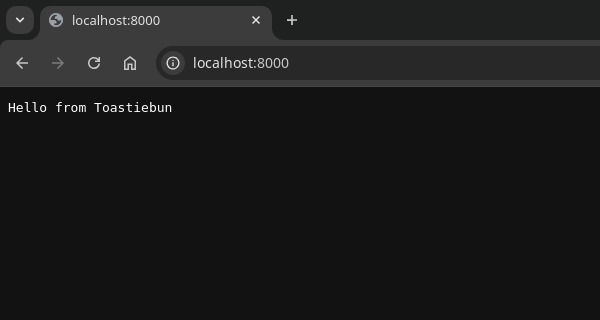
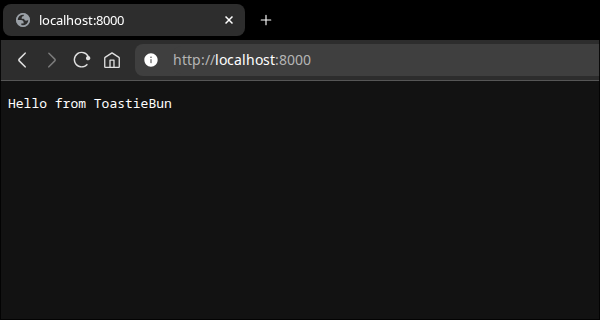
Documentation updates; server typing issue resolved

diff --git a/src/server.ts b/src/server.ts
@@ -232,8 +232,8 @@ export default class server {
 				}
 			}
 		});
-		this.host = this.#s.hostname;
-		this.port = this.#s.port;
+		this.host = <string>this.#s.hostname;
+		this.port = <number>this.#s.port;
 		if (callback)
 			callback(this);
 		return true;

diff --git a/docs/Guides/Dynamic Routes.md b/docs/Guides/Dynamic Routes.md
@@ -14,10 +14,10 @@ import toastiebun from "toastiebun";
 
 const app = new toastiebun.server();
 
-app.get("/post/:community/:slug", (req, res) => {
+app.get("/posts/:community/:slug", (req, res) => {
 	res.send({
 		status: "success",
-		post: {
+		posts: {
 			community: req.params.community,
 			slug: req.params.slug,
 		}
@@ -29,6 +29,6 @@ app.listen("::", 8000, () => {
 });
 ```
 
-![Example 1](../assets/DynamicRoutes-example1.png)
+![Example 1](../assets/DynamicRoutes-example.png)
 
 This is great for simple pages that are stored somewhere else and can be accessed by the server however, dynamic routes can also be used to write APIs with a bit more complex structuring.

diff --git a/docs/Guides/Getting Started.md b/docs/Guides/Getting Started.md
@@ -35,7 +35,7 @@ bun --version
 4. Create an `index.ts` file and add the following code:
 
     ```typescript
-    import toastiebun from "toastiebun"; // v0.4.11
+    import toastiebun from "toastiebun"; // v0.4.12
 
     const app = new toastiebun.server();
 
@@ -54,4 +54,4 @@ bun --version
     ```
 
 6. Open your browser and visit `http://localhost:8000`. You should see `Hello, ToastieBun!` displayed.
-   ![Hello from Toasteibun](../assets/HelloWorld.png)
+   ![Hello from Toasteibun](../assets/HelloWorld-example.png)
